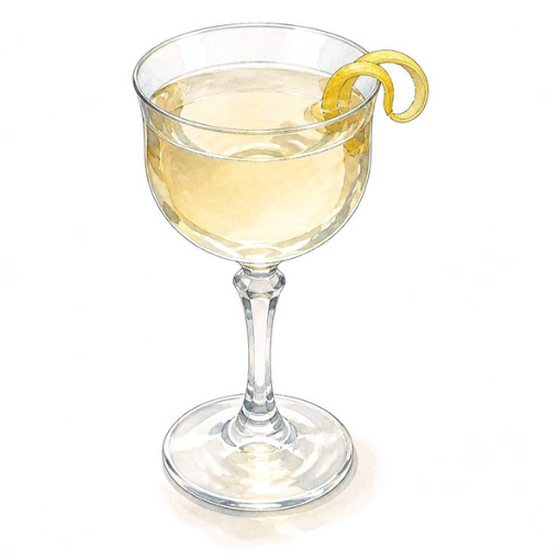
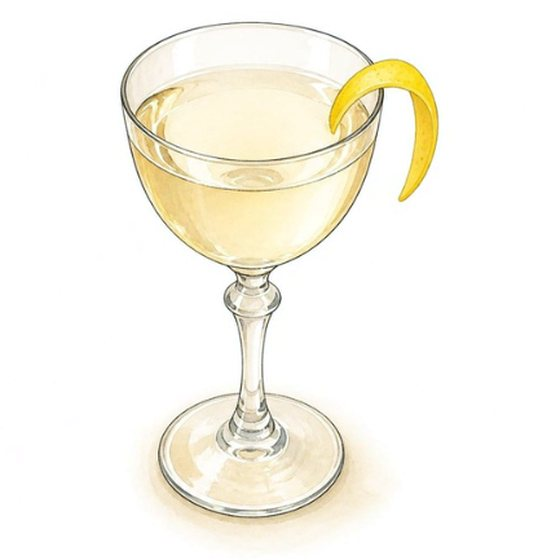
Bamboo : nouvelle aquarelle avec un zeste de citron propre
Claude-Session: https://claude.ai/code/session_017Zjpt6S1EDsr8xtp7PSGq8

Changed region(s): [[0.2125, 0.0607, 0.7893, 0.9411], [0.3339, 0.0304, 0.5768, 0.0607], [0.4554, 0.0911, 0.4857, 0.1214]]

diff --git a/sw.js b/sw.js
@@ -1,7 +1,7 @@
 // Fonctionnement hors connexion : le site est mis en cache à la première visite.
 // Changer VERSION à chaque mise à jour du contenu pour rafraîchir le cache.
-const VERSION = "socle-v14";
-const FICHIERS = ["./", "fonts/bebas-neue.woff2", "fonts/dm-sans-400.woff2", "fonts/dm-sans-500.woff2", "fonts/dm-sans-700.woff2", "app.js?v=14", "data/alcools.js?v=14", "data/cocktails.js?v=14", "data/savoirs.js?v=14", "data/emblemes.js?v=14", "img/accueil/poster.jpg", "img/bouteilles/bitter.png", "img/bouteilles/cachaca.png", "img/bouteilles/champagne.png", "img/bouteilles/cognac.png", "img/bouteilles/gin.png", "img/bouteilles/liqueurs.png", "img/bouteilles/rhum.png", "img/bouteilles/tequila.png", "img/bouteilles/vermouth-martini.png", "img/bouteilles/vermouth.png", "img/bouteilles/vodka.png", "img/bouteilles/whisky.png", "img/bouteilles/xeres.png", "img/cocktails/americano.jpg", "img/cocktails/aviation.jpg", "img/cocktails/bamboo.jpg", "img/cocktails/bellini.jpg", "img/cocktails/bloody-mary.jpg", "img/cocktails/bramble.jpg", "img/cocktails/caipirinha.jpg", "img/cocktails/champagne-cocktail.jpg", "img/cocktails/cosmopolitan.jpg", "img/cocktails/daiquiri.jpg", "img/cocktails/dark-and-stormy.jpg", "img/cocktails/dry-martini.jpg", "img/cocktails/espresso-martini.jpg", "img/cocktails/fizz.jpg", "img/cocktails/french-75.jpg", "img/cocktails/gin-basil-smash.jpg", "img/cocktails/horses-neck.jpg", "img/cocktails/mai-tai.jpg", "img/cocktails/manhattan.jpg", "img/cocktails/margarita.jpg", "img/cocktails/mint-julep.jpg", "img/cocktails/mojito.jpg", "img/cocktails/moscow-mule.jpg", "img/cocktails/negroni.jpg", "img/cocktails/old-fashioned.jpg", "img/cocktails/paloma.jpg", "img/cocktails/penicillin.jpg", "img/cocktails/pina-colada.jpg", "img/cocktails/planters-punch.jpg", "img/cocktails/pornstar-martini.jpg", "img/cocktails/rum-swizzle.jpg", "img/cocktails/sex-on-the-beach.jpg", "img/cocktails/sidecar.jpg", "img/cocktails/sour.jpg", "img/cocktails/spritz.jpg", "img/cocktails/tequila-sunrise.jpg", "img/icone/apple-touch-icon.png", "img/icone/favicon-32.png", "img/icone/icone-192.png", "img/icone/icone-512.png", "img/materiel/bec-verseur.jpg", "img/materiel/cuillere-bar.jpg", "img/materiel/doseur.jpg", "img/materiel/eplucheur.jpg", "img/materiel/passoire-cocktail.jpg", "img/materiel/passoire-fine.jpg", "img/materiel/passoire-julep.jpg", "img/materiel/pilon.jpg", "img/materiel/presse-agrumes.jpg", "img/materiel/shaker-boston.jpg", "img/materiel/shaker-continental.jpg", "img/materiel/shaker-trois-pieces.jpg", "img/materiel/verre-melange.jpg", "img/verres/absinthe.jpg", "img/verres/biere.jpg", "img/verres/copa.jpg", "img/verres/coupe.jpg", "img/verres/degustation.jpg", "img/verres/digestif.jpg", "img/verres/fantaisie.jpg", "img/verres/flute.jpg", "img/verres/highball.jpg", "img/verres/hurricane.jpg", "img/verres/julep.jpg", "img/verres/martini.jpg", "img/verres/mule.jpg", "img/verres/nick-nora.jpg", "img/verres/old-fashioned.jpg", "img/verres/punch.jpg", "img/verres/shot.jpg", "img/verres/tiki.jpg", "img/verres/toddy.jpg", "img/verres/vin.jpg", "index.html", "manifest.webmanifest?v=14", "style.css?v=14"];
+const VERSION = "socle-v15";
+const FICHIERS = ["./", "fonts/bebas-neue.woff2", "fonts/dm-sans-400.woff2", "fonts/dm-sans-500.woff2", "fonts/dm-sans-700.woff2", "app.js?v=15", "data/alcools.js?v=15", "data/cocktails.js?v=15", "data/savoirs.js?v=15", "data/emblemes.js?v=15", "img/accueil/poster.jpg", "img/bouteilles/bitter.png", "img/bouteilles/cachaca.png", "img/bouteilles/champagne.png", "img/bouteilles/cognac.png", "img/bouteilles/gin.png", "img/bouteilles/liqueurs.png", "img/bouteilles/rhum.png", "img/bouteilles/tequila.png", "img/bouteilles/vermouth-martini.png", "img/bouteilles/vermouth.png", "img/bouteilles/vodka.png", "img/bouteilles/whisky.png", "img/bouteilles/xeres.png", "img/cocktails/americano.jpg", "img/cocktails/aviation.jpg", "img/cocktails/bamboo.jpg", "img/cocktails/bellini.jpg", "img/cocktails/bloody-mary.jpg", "img/cocktails/bramble.jpg", "img/cocktails/caipirinha.jpg", "img/cocktails/champagne-cocktail.jpg", "img/cocktails/cosmopolitan.jpg", "img/cocktails/daiquiri.jpg", "img/cocktails/dark-and-stormy.jpg", "img/cocktails/dry-martini.jpg", "img/cocktails/espresso-martini.jpg", "img/cocktails/fizz.jpg", "img/cocktails/french-75.jpg", "img/cocktails/gin-basil-smash.jpg", "img/cocktails/horses-neck.jpg", "img/cocktails/mai-tai.jpg", "img/cocktails/manhattan.jpg", "img/cocktails/margarita.jpg", "img/cocktails/mint-julep.jpg", "img/cocktails/mojito.jpg", "img/cocktails/moscow-mule.jpg", "img/cocktails/negroni.jpg", "img/cocktails/old-fashioned.jpg", "img/cocktails/paloma.jpg", "img/cocktails/penicillin.jpg", "img/cocktails/pina-colada.jpg", "img/cocktails/planters-punch.jpg", "img/cocktails/pornstar-martini.jpg", "img/cocktails/rum-swizzle.jpg", "img/cocktails/sex-on-the-beach.jpg", "img/cocktails/sidecar.jpg", "img/cocktails/sour.jpg", "img/cocktails/spritz.jpg", "img/cocktails/tequila-sunrise.jpg", "img/icone/apple-touch-icon.png", "img/icone/favicon-32.png", "img/icone/icone-192.png", "img/icone/icone-512.png", "img/materiel/bec-verseur.jpg", "img/materiel/cuillere-bar.jpg", "img/materiel/doseur.jpg", "img/materiel/eplucheur.jpg", "img/materiel/passoire-cocktail.jpg", "img/materiel/passoire-fine.jpg", "img/materiel/passoire-julep.jpg", "img/materiel/pilon.jpg", "img/materiel/presse-agrumes.jpg", "img/materiel/shaker-boston.jpg", "img/materiel/shaker-continental.jpg", "img/materiel/shaker-trois-pieces.jpg", "img/materiel/verre-melange.jpg", "img/verres/absinthe.jpg", "img/verres/biere.jpg", "img/verres/copa.jpg", "img/verres/coupe.jpg", "img/verres/degustation.jpg", "img/verres/digestif.jpg", "img/verres/fantaisie.jpg", "img/verres/flute.jpg", "img/verres/highball.jpg", "img/verres/hurricane.jpg", "img/verres/julep.jpg", "img/verres/martini.jpg", "img/verres/mule.jpg", "img/verres/nick-nora.jpg", "img/verres/old-fashioned.jpg", "img/verres/punch.jpg", "img/verres/shot.jpg", "img/verres/tiki.jpg", "img/verres/toddy.jpg", "img/verres/vin.jpg", "index.html", "manifest.webmanifest?v=15", "style.css?v=15"];
 
 self.addEventListener("install", (e) => {
   e.waitUntil(caches.open(VERSION).then((c) => c.addAll(FICHIERS)).then(() => self.skipWaiting()));

diff --git a/index.html b/index.html
@@ -9,14 +9,14 @@
   <link rel="icon" href="img/icone/icone.svg" type="image/svg+xml">
   <link rel="icon" href="img/icone/favicon-32.png" sizes="32x32" type="image/png">
   <link rel="apple-touch-icon" href="img/icone/apple-touch-icon.png">
-  <link rel="manifest" href="manifest.webmanifest?v=14">
+  <link rel="manifest" href="manifest.webmanifest?v=15">
   <meta name="apple-mobile-web-app-capable" content="yes">
   <meta name="mobile-web-app-capable" content="yes">
   <meta name="apple-mobile-web-app-title" content="Cocktails">
   <meta name="apple-mobile-web-app-status-bar-style" content="black">
   <link rel="preload" href="fonts/bebas-neue.woff2" as="font" type="font/woff2" crossorigin>
   <link rel="preload" href="fonts/dm-sans-400.woff2" as="font" type="font/woff2" crossorigin>
-  <link rel="stylesheet" href="style.css?v=14">
+  <link rel="stylesheet" href="style.css?v=15">
 </head>
 <body>
   <header class="topbar">
@@ -57,11 +57,11 @@
     <svg width="22" height="22" viewBox="0 0 24 24" fill="none" stroke="currentColor" stroke-width="2.4" stroke-linecap="round" stroke-linejoin="round" aria-hidden="true"><path d="M12 19V5"/><path d="M5 12l7-7 7 7"/></svg>
   </button>
 
-  <script src="data/cocktails.js?v=14"></script>
-  <script src="data/alcools.js?v=14"></script>
-  <script src="data/savoirs.js?v=14"></script>
-  <script src="data/emblemes.js?v=14"></script>
-  <script src="app.js?v=14"></script>
+  <script src="data/cocktails.js?v=15"></script>
+  <script src="data/alcools.js?v=15"></script>
+  <script src="data/savoirs.js?v=15"></script>
+  <script src="data/emblemes.js?v=15"></script>
+  <script src="app.js?v=15"></script>
   <script>if ("serviceWorker" in navigator) { window.addEventListener("load", function () { navigator.serviceWorker.register("sw.js"); }); }</script>
 </body>
 </html>
